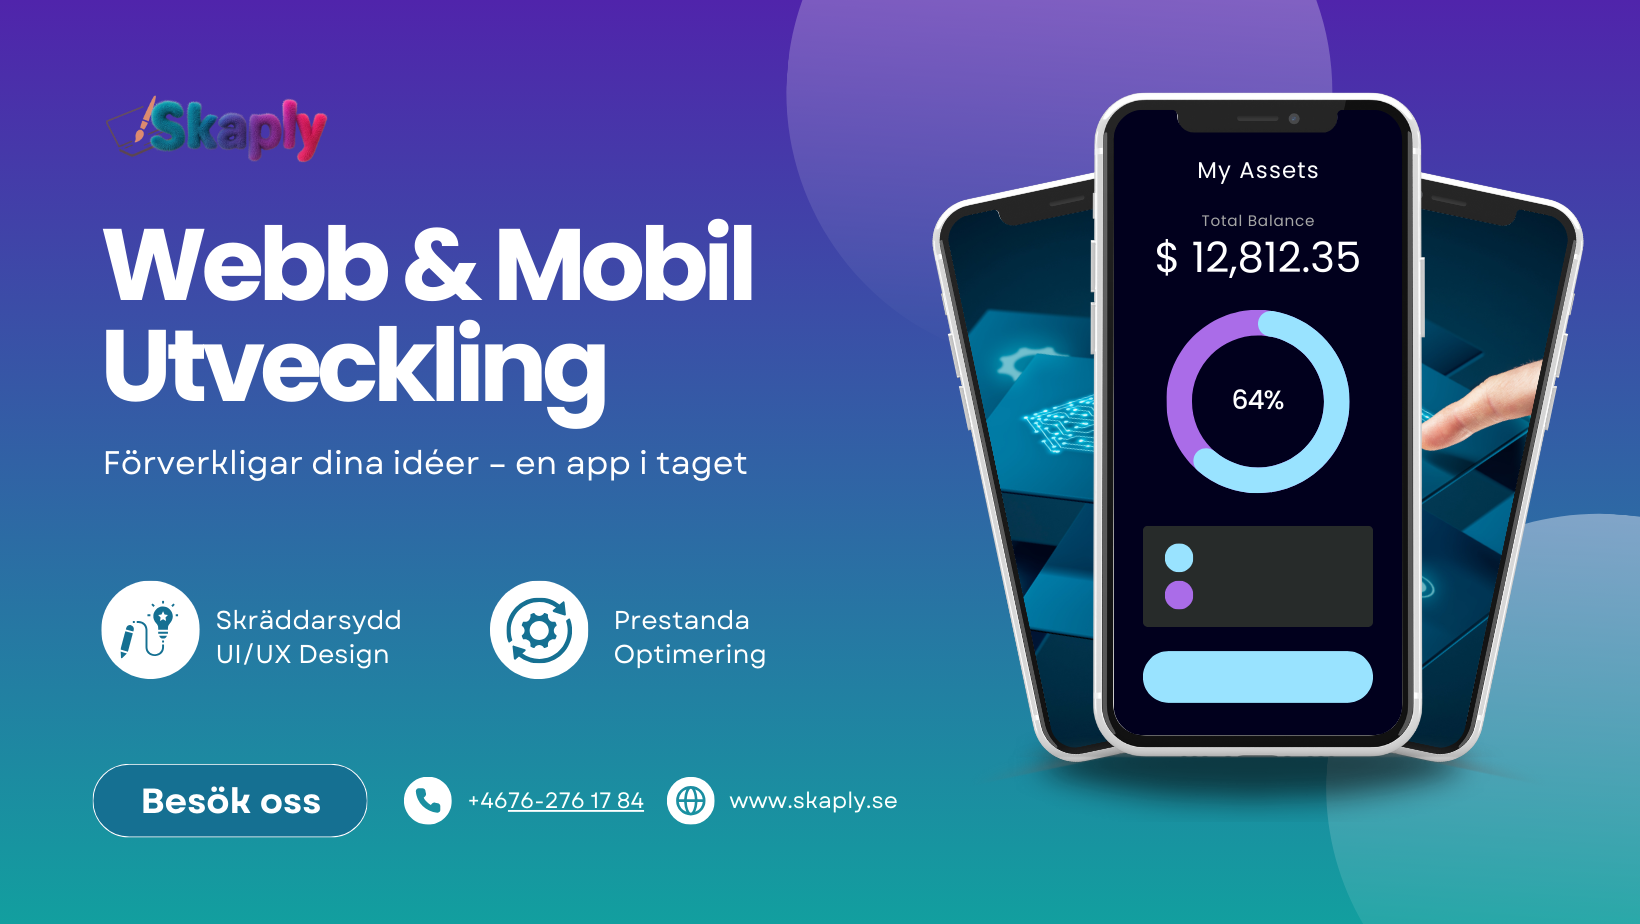
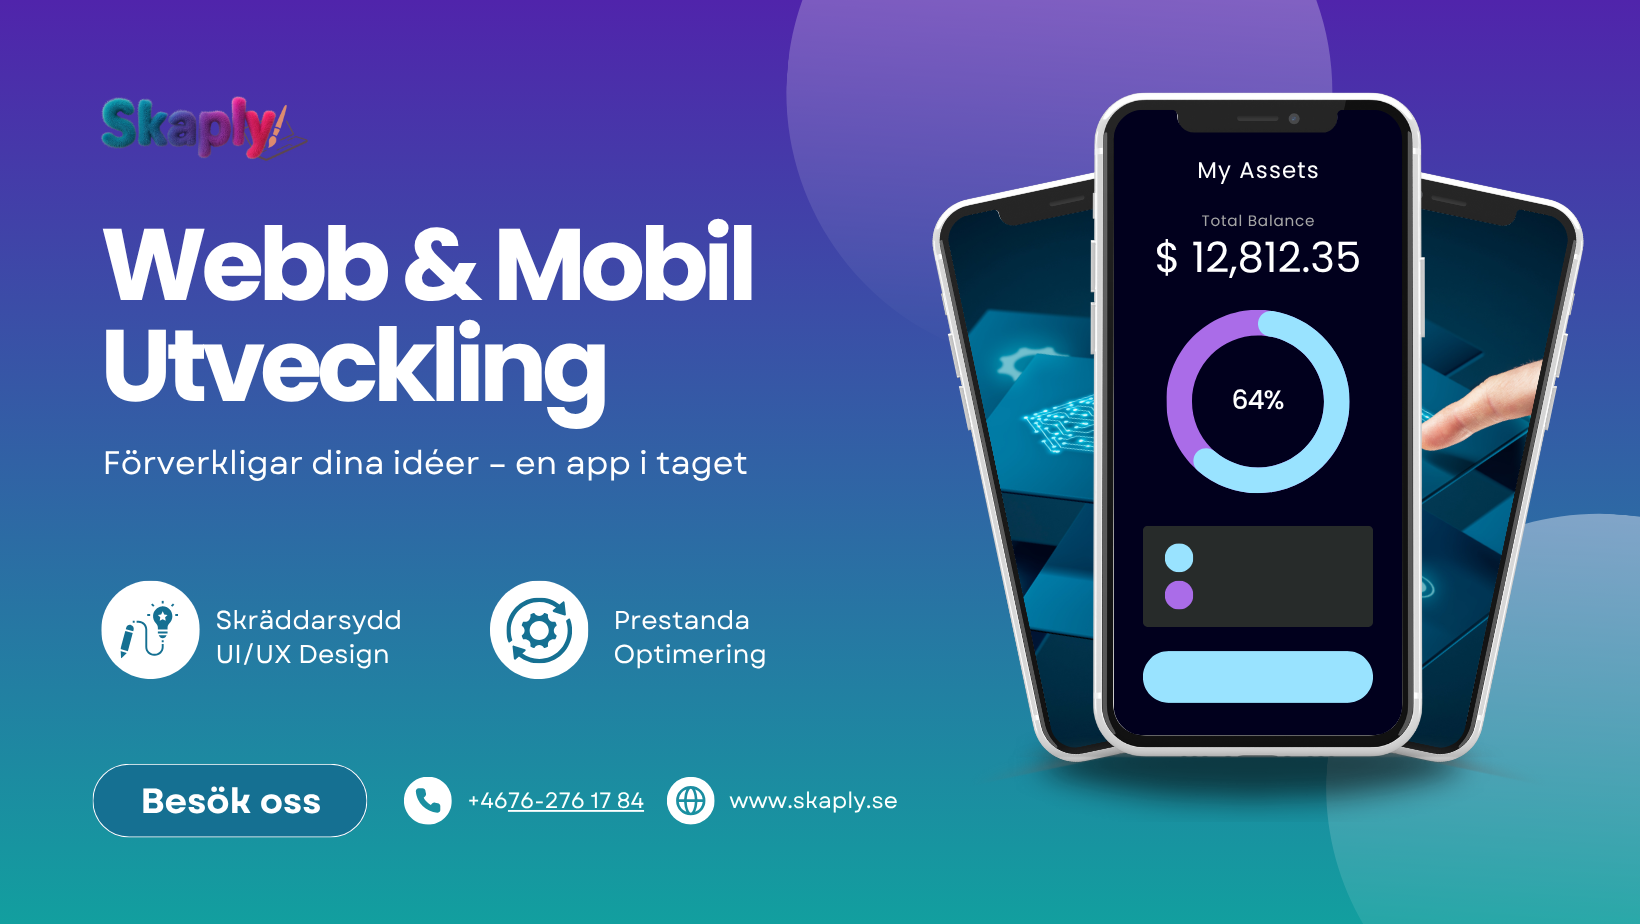
-

Changed region(s): [[0.0622, 0.0909, 0.2177, 0.1818]]

diff --git a/components/footer.tsx b/components/footer.tsx
@@ -1,6 +1,7 @@
 "use client"
 
 import Link from "next/link"
+import Image from "next/image"
 import { Facebook, Instagram, Linkedin, Mail, MapPin, Phone, Twitter } from "lucide-react"
 import { AnimatedLink } from "@/components/ui/animated-link"
 import { AnimatedIcon } from "@/components/ui/animated-icon"
@@ -39,9 +40,13 @@ export function Footer() {
         <div className="grid grid-cols-1 md:grid-cols-2 lg:grid-cols-4 gap-8 mb-12">
           <motion.div variants={itemVariants}>
             <Link href="/" className="flex items-center mb-4">
-              <span className="text-2xl font-bold bg-gradient-to-r from-[#00ADB5] to-[#E94560] bg-clip-text text-transparent">
-                Skaply
-              </span>
+              <Image 
+                src="/skaply_logo.png" 
+                alt="Skaply Logo" 
+                width={120} 
+                height={40} 
+                className="h-auto"
+              />
             </Link>
             <p className="mb-4">
               Digitala lösningar för framtiden. Vi hjälper företag att växa med modern teknik och kreativ design.
